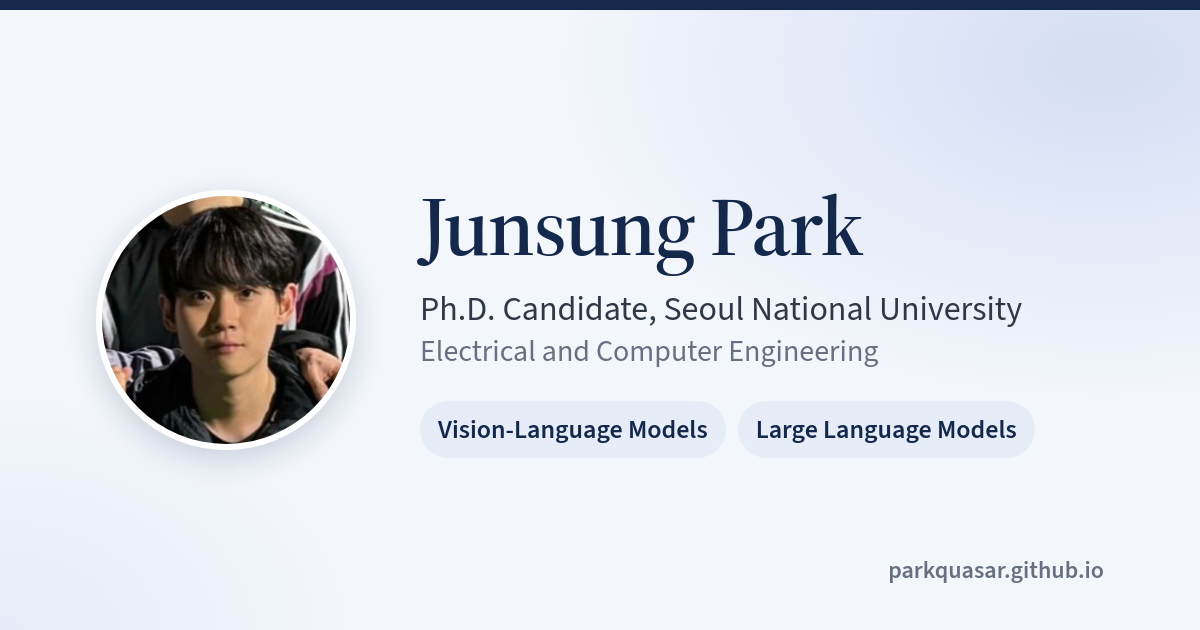
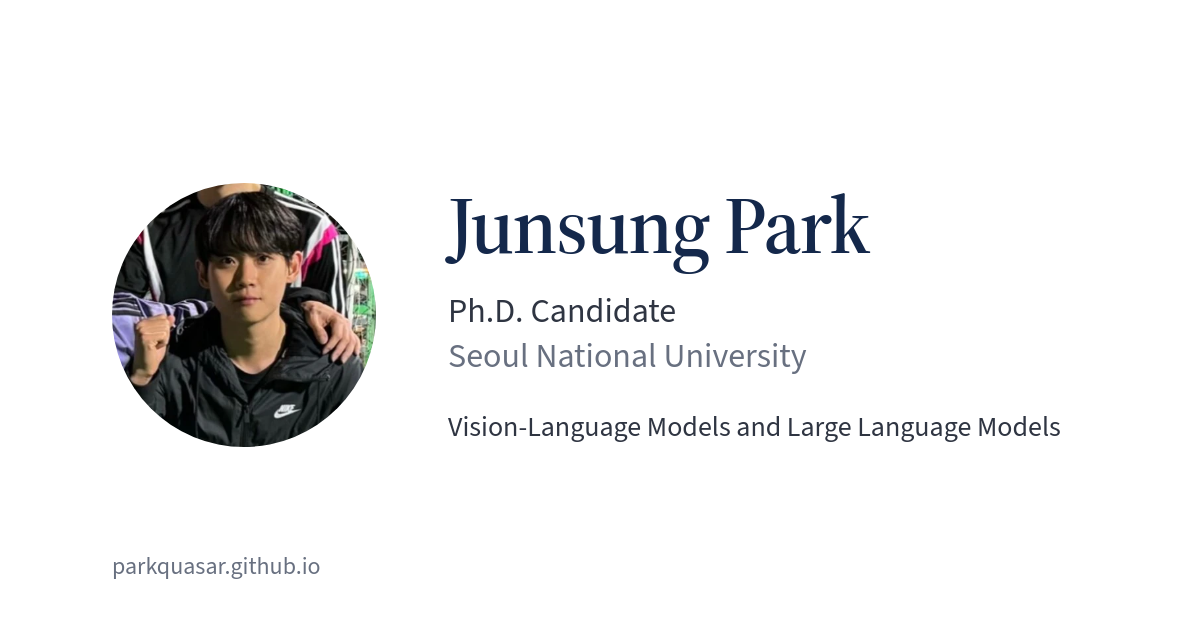
Five latest news with the rest under Earlier news; section links in the profile column; Service and Teaching and Honors sections; link preview card in the current style, with a version hash on og:image

diff --git a/index.html b/index.html
@@ -11,7 +11,7 @@
   <meta property="og:title" content="Junsung Park">
   <meta property="og:description" content="AI researcher and Ph.D. candidate at Seoul National University. Research on Vision-Language Models and Large Language Models.">
   <meta property="og:url" content="https://parkquasar.github.io/">
-  <meta property="og:image" content="https://parkquasar.github.io/assets/img/og-card.png">
+  <meta property="og:image" content="https://parkquasar.github.io/assets/img/og-card.png?v=b66c181b">
   <meta property="og:image:width" content="1200">
   <meta property="og:image:height" content="630">
   <meta property="og:image:alt" content="Junsung Park, Ph.D. candidate at Seoul National University">
@@ -20,7 +20,7 @@
   <link rel="icon" href="favicon.svg?v=b9212a78" type="image/svg+xml">
   <link rel="preload" href="assets/fonts/source-sans-3-latin-wght-normal.woff2" as="font" type="font/woff2" crossorigin>
   <link rel="preload" href="assets/fonts/source-serif-4-latin-opsz-normal.woff2" as="font" type="font/woff2" crossorigin>
-  <link rel="stylesheet" href="assets/style.css?v=1bb63927">
+  <link rel="stylesheet" href="assets/style.css?v=d92d2c3d">
   <script type="application/ld+json">
   {
     "@context": "https://schema.org",
@@ -64,6 +64,12 @@
       </ul>
     </div>
     <p class="status">Open to research internships</p>
+    <nav class="toc" aria-label="Sections">
+      <a href="#top">About</a>
+      <a href="#news">News</a>
+      <a href="#publications">Publications</a>
+      <a href="#service">Service</a>
+    </nav>
   </header>
 
   <main>
@@ -82,21 +88,28 @@
     <section class="sect" id="news" aria-labelledby="h-news">
       <h2 class="label" id="h-news">News</h2>
       <div class="body">
-        <!-- Newest first. Venue names use &nbsp; so they stay on one line. -->
+        <!-- Newest first; the five most recent are shown, the rest sit under "Earlier news".
+             When adding an item, move the fifth one down into the second list.
+             Venue names use &nbsp; so they stay on one line. -->
         <ul class="news">
             <li><time datetime="2026-12">Dec 2026</time><span>Presenting at <a href="#neurips2026">NeurIPS&nbsp;2026</a> in <span class="nb">Sydney, Australia</span></span></li>
             <li><time datetime="2026-10">Oct 2026</time><span>Paper accepted to <a href="#tpami2026">IEEE&nbsp;TPAMI</a></span></li>
             <li><time datetime="2026-09">Sep 2026</time><span>Paper accepted to <a href="#neurips2026">NeurIPS&nbsp;2026</a></span></li>
             <li><time datetime="2026-07">Jul 2026</time><span>Presented at <a href="#icml2026">ICML&nbsp;2026</a> in <span class="nb">Seoul, Korea</span></span></li>
             <li><time datetime="2026-04">Apr 2026</time><span>Paper accepted to <a href="#icml2026">ICML&nbsp;2026</a></span></li>
-            <li><time datetime="2025-10">Oct 2025</time><span>Presented at <a href="#iccv2025">ICCV&nbsp;2025</a> in <span class="nb">Honolulu, Hawaii</span></span></li>
-            <li><time datetime="2025-06">Jun 2025</time><span>Paper accepted to <a href="#iccv2025">ICCV&nbsp;2025</a></span></li>
-            <li><time datetime="2025-01">Jan 2025</time><span>Paper accepted to <span class="nb"><a href="#naacl2025">NAACL&nbsp;2025</a> Findings</span></span></li>
-            <li><time datetime="2024-05">May 2024</time><span>Paper accepted to <a href="#acl2024">ACL&nbsp;2024</a> <span class="nb">as an oral</span></span></li>
-            <li><time datetime="2024-05">May 2024</time><span>Presented at <a href="#iclr2024">ICLR&nbsp;2024</a> in <span class="nb">Vienna, Austria</span></span></li>
-            <li><time datetime="2024-01">Jan 2024</time><span>Two papers accepted to <a href="#iclr2024">ICLR&nbsp;2024</a>, one as a&nbsp;spotlight</span></li>
-            <li><time datetime="2023-09">Sep 2023</time><span>Paper accepted to <a href="#neurips2023">NeurIPS&nbsp;2023</a></span></li>
         </ul>
+        <details class="more">
+          <summary>Earlier news</summary>
+          <ul class="news">
+              <li><time datetime="2025-10">Oct 2025</time><span>Presented at <a href="#iccv2025">ICCV&nbsp;2025</a> in <span class="nb">Honolulu, Hawaii</span></span></li>
+              <li><time datetime="2025-06">Jun 2025</time><span>Paper accepted to <a href="#iccv2025">ICCV&nbsp;2025</a></span></li>
+              <li><time datetime="2025-01">Jan 2025</time><span>Paper accepted to <span class="nb"><a href="#naacl2025">NAACL&nbsp;2025</a> Findings</span></span></li>
+              <li><time datetime="2024-05">May 2024</time><span>Paper accepted to <a href="#acl2024">ACL&nbsp;2024</a> <span class="nb">as an oral</span></span></li>
+              <li><time datetime="2024-05">May 2024</time><span>Presented at <a href="#iclr2024">ICLR&nbsp;2024</a> in <span class="nb">Vienna, Austria</span></span></li>
+              <li><time datetime="2024-01">Jan 2024</time><span>Two papers accepted to <a href="#iclr2024">ICLR&nbsp;2024</a>, one as a&nbsp;spotlight</span></li>
+              <li><time datetime="2023-09">Sep 2023</time><span>Paper accepted to <a href="#neurips2023">NeurIPS&nbsp;2023</a></span></li>
+          </ul>
+        </details>
       </div>
     </section>
 
@@ -227,6 +240,26 @@
       <ul class="links"><li><a href="https://proceedings.neurips.cc/paper_files/paper/2023/hash/3d226fb8fbd6ee6ec70d0427f1319707-Abstract-Conference.html">Paper</a></li><li><a href="https://arxiv.org/abs/2310.10088">arXiv</a></li><li><a href="https://github.com/HyemiEsme/PUCA">Code</a></li></ul>
     </article>
         <p class="legend">* Equal contribution</p>
+      </div>
+    </section>
+
+    <!-- ===== Service, teaching and honors =============================== -->
+    <section class="sect" id="service" aria-labelledby="h-service">
+      <h2 class="label" id="h-service">Service and Teaching</h2>
+      <div class="body">
+        <ul class="items">
+          <li><p class="item">Conference Reviewer</p><p class="detail">CVPR, NeurIPS, ICLR</p></li>
+          <li><p class="item">Teaching Assistant, Seoul National University</p><p class="detail">Machine Learning Fundamentals, Spring 2026</p><p class="detail">Machine Learning Fundamentals and Applications in Electrical and Computer Engineering, Spring 2023</p></li>
+        </ul>
+      </div>
+    </section>
+
+    <section class="sect" id="honors" aria-labelledby="h-honors">
+      <h2 class="label" id="h-honors">Honors</h2>
+      <div class="body">
+        <ul class="items">
+          <li><p class="item">National Academic Excellence Scholarship (Science and Engineering)</p><p class="detail">Korea Student Aid Foundation, <span class="nb">2016&ndash;2022</span></p></li>
+        </ul>
       </div>
     </section>
 

diff --git a/assets/style.css b/assets/style.css
@@ -139,6 +139,9 @@ h1 {
 .status { display: flex; align-items: center; gap: 0.5rem; font-size: 1rem; line-height: 1.5; }
 .status::before { content: ""; flex: none; width: 0.4375rem; height: 0.4375rem; border-radius: 50%; background: var(--navy); }
 
+/* Section links under the status; shown only when the profile is a sticky column. */
+.toc { display: none; }
+
 /* ---- Sections ------------------------------------------------------ */
 .sect + .sect { margin-top: 4rem; }
 .label {
@@ -167,6 +170,34 @@ h1 {
 }
 .news time { color: var(--muted); font-size: 0.9375rem; font-variant-numeric: tabular-nums; white-space: nowrap; }
 
+/* Older news behind a disclosure (no script): a small navy link with a chevron that turns. */
+.more { margin-top: 0.25rem; }
+.more > summary {
+  display: inline-flex;
+  align-items: center;
+  gap: 0.5rem;
+  padding: 0.25rem 0;
+  color: var(--link);
+  font-size: 0.9375rem;
+  line-height: 1.5;
+  list-style: none;
+  cursor: pointer;
+}
+.more > summary::-webkit-details-marker { display: none; }
+.more > summary::after {
+  content: "";
+  width: 0.375rem;
+  height: 0.375rem;
+  border-right: 1.5px solid currentColor;
+  border-bottom: 1.5px solid currentColor;
+  transform: translateY(-0.125rem) rotate(45deg);
+  transition: transform 0.15s ease;
+}
+.more[open] > summary::after { transform: translateY(0.125rem) rotate(-135deg); }
+.more > summary:hover { text-decoration: underline; text-decoration-thickness: 1px; text-underline-offset: 3px; }
+.more > summary:focus-visible { outline: 2px solid var(--navy); outline-offset: 3px; border-radius: 3px; }
+.more[open] > summary { margin-bottom: 0.25rem; }
+
 /* ---- Publications -------------------------------------------------- */
 .year {
   margin: 2.5rem 0 0.25rem;
@@ -179,6 +210,11 @@ h1 {
 }
 .body > .year:first-child { margin-top: 0.5rem; }
 .legend { margin-top: 1.5rem; color: var(--muted); font-size: 0.9375rem; }
+
+/* Service, teaching and honors: an item, then its details in grey. */
+.items li + li { margin-top: 0.75rem; }
+.item { color: var(--ink); font-size: 1rem; line-height: 1.5; }
+.detail { color: var(--muted); font-size: 0.9375rem; line-height: 1.5; }
 
 /* Each paper is a row: figure | text, with the links under the text. All figures are 3:2
    (assets/img/thumbs); they open the full-size figure. */
@@ -226,6 +262,9 @@ footer .wrap { display: flex; flex-wrap: wrap; justify-content: space-between; g
   .ident { margin-top: 1.5rem; }
   .reach { margin-top: 1.25rem; }
   .status { margin-top: 1rem; }
+  .toc { display: flex; flex-direction: column; align-items: flex-start; gap: 0.25rem; margin-top: 2.5rem; }
+  .toc a { color: var(--muted); font-size: 0.9375rem; line-height: 1.5; transition: color 0.15s ease; }
+  .toc a:hover { color: var(--navy); }
   main { padding-top: 5rem; }
 }
 
@@ -276,7 +315,7 @@ footer .wrap { display: flex; flex-wrap: wrap; justify-content: space-between; g
 }
 
 /* Short windows: the sticky profile would not fit, so it scrolls with the page. */
-@media (min-width: 70rem) and (max-height: 28rem) {
+@media (min-width: 70rem) and (max-height: 37rem) { /* the profile column is about 573px tall */
   .profile { position: static; }
 }
 /* Touch screens: taller tap areas for the paper links, without moving anything. */
@@ -291,5 +330,6 @@ footer .wrap { display: flex; flex-wrap: wrap; justify-content: space-between; g
 
 @media print {
   .profile { position: static; }
+  .toc, .more > summary { display: none; }
   .pub { break-inside: avoid; }
 }

diff --git a/tools/og-card.html b/tools/og-card.html
@@ -1,0 +1,22 @@
+<!doctype html><html><head><meta charset="utf-8">
+<!-- Link preview card (assets/img/og-card.png), 1200 x 630. Render it in an exact 1200 x 630 frame
+     (e.g. an iframe in headless Chrome) from the repository root, then run tools/stamp_assets.py. -->
+<base href="../">
+<link rel="stylesheet" href="assets/style.css">
+<style>
+html,body{margin:0;width:1200px;height:630px;overflow:hidden;background:#fff}
+.c{position:absolute;left:112px;right:112px;top:0;bottom:0;display:flex;align-items:center;gap:72px}
+.c img{width:264px;height:264px;border-radius:50%;object-fit:cover;flex:none}
+h1{margin:0;color:var(--navy);font-family:var(--serif);font-size:80px;font-weight:600;line-height:1.05;letter-spacing:-.02em}
+.r{margin-top:22px;color:var(--text);font-size:34px;line-height:1.35}
+.d{color:var(--muted);font-size:34px;line-height:1.35}
+.t{margin-top:28px;color:var(--text);font-size:28px;line-height:1.4}
+.u{position:absolute;left:112px;bottom:44px;color:var(--muted);font-size:24px}
+</style></head><body>
+<div class="c"><img src="assets/img/profile.webp" alt="">
+<div><h1>Junsung Park</h1>
+<div class="r">Ph.D. Candidate</div>
+<div class="d">Seoul National University</div>
+<div class="t">Vision-Language Models and Large Language Models</div></div></div>
+<div class="u">parkquasar.github.io</div>
+</body></html>

diff --git a/tools/stamp_assets.py b/tools/stamp_assets.py
@@ -4,6 +4,8 @@
 Browsers keep files from this site for ten minutes. With the hash in the link, a changed
 image, stylesheet or CV is fetched again at once. Run from the repository root after
 changing any file under assets/ or the CV:  python3 tools/stamp_assets.py
+The link preview image (og:image) gets the same hash, so sites that cache previews fetch a
+changed card. The card is rendered from tools/og-card.html (headless Chrome, 1200 x 630).
 """
 import hashlib
 import re
@@ -21,6 +23,18 @@ def stamp(match):
     return f'{match.group("attr")}="{path}?v={digest}"'
 
 
+# The link preview image is referenced by its full address in the og:image tag.
+og_pattern = re.compile(r'content="https://parkquasar\.github\.io/(?P<path>assets/img/[^"?#]+)(?:\?v=[0-9a-f]+)?"')
+
+
+def stamp_og(match):
+    path = match.group("path")
+    digest = hashlib.sha256((root / path).read_bytes()).hexdigest()[:8]
+    return f'content="https://parkquasar.github.io/{path}?v={digest}"'
+
+
 new_html, count = pattern.subn(stamp, html)
+new_html, og_count = og_pattern.subn(stamp_og, new_html)
+count += og_count
 page.write_text(new_html, encoding="utf-8")
 print(f"stamped {count} links")
